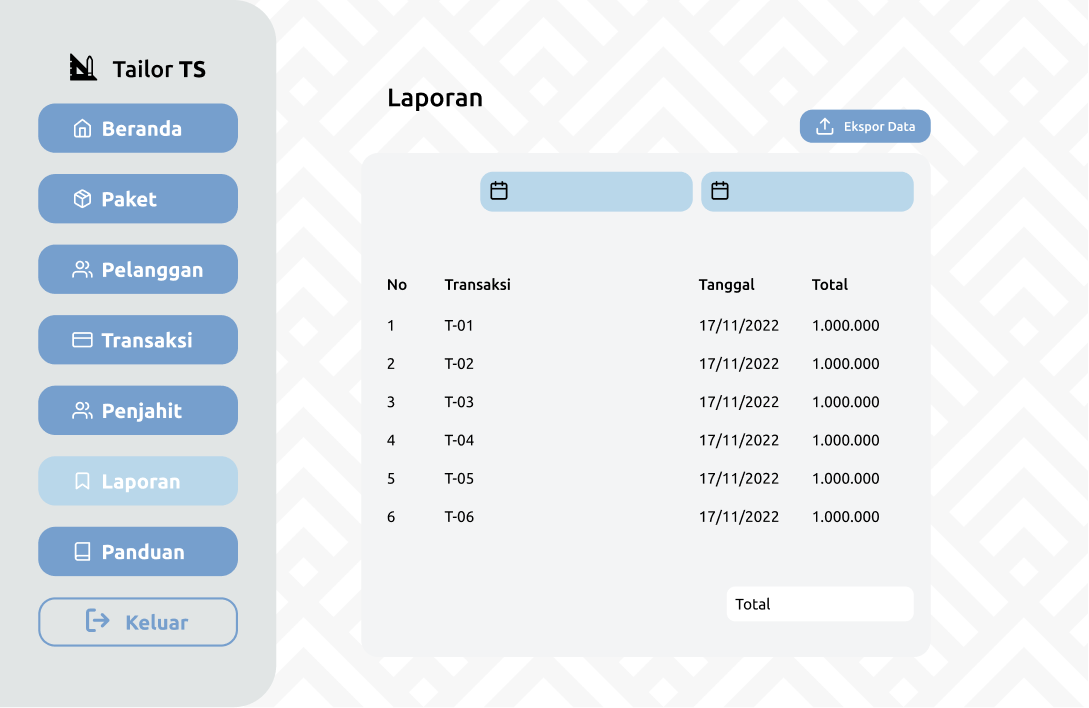
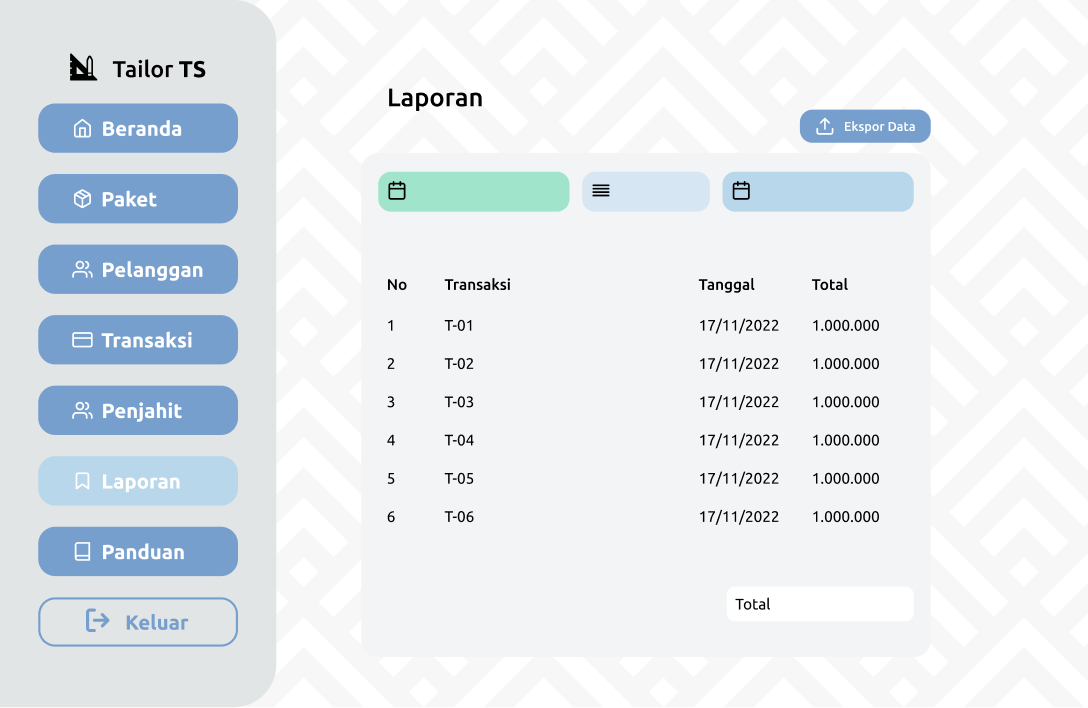
feat: show report data

diff --git a/src/main/java/polije/ppl/tailor/view/admin/LaporanAdminView.java b/src/main/java/polije/ppl/tailor/view/admin/LaporanAdminView.java
@@ -4,11 +4,12 @@
  */
 package polije.ppl.tailor.view.admin;
 
-import java.util.List;
+import java.util.Date;
 import javax.swing.table.DefaultTableModel;
 
+import polije.ppl.tailor.data.TransactionStatus;
 import polije.ppl.tailor.entity.Transaction;
-import polije.ppl.tailor.repository.TransactionRepository;
+import polije.ppl.tailor.service.ReportService;
 import polije.ppl.tailor.util.NumberUtil;
 import polije.ppl.tailor.view.util.SidebarAdminView;
 
@@ -17,27 +18,18 @@ import polije.ppl.tailor.view.util.SidebarAdminView;
  * @author Hafidz
  */
 public class LaporanAdminView extends javax.swing.JFrame {
-    private TransactionRepository transRepo = new TransactionRepository();
-
     /**
      * Creates new form LaporanAdminView
      */
     public LaporanAdminView() {
         initComponents();
+        initTransparents();
 
         sidebar.add(new SidebarAdminView(this));
         sidebar.setBackground(new java.awt.Color(255, 255, 255, 0));
+        startDate.setDate(new Date());
 
-        total.setOpaque(false);
-        total.setBackground(new java.awt.Color(255, 255, 255, 0));
-
-        startDate.setOpaque(false);
-        startDate.setBackground(new java.awt.Color(255, 255, 255, 0));
-
-        endDate.setOpaque(false);
-        endDate.setBackground(new java.awt.Color(255, 255, 255, 0));
-
-        loadTable(transRepo.get());
+        loadTable();
     }
 
     /**
@@ -55,6 +47,7 @@ public class LaporanAdminView extends javax.swing.JFrame {
         total = new javax.swing.JTextField();
         startDate = new com.toedter.calendar.JDateChooser();
         endDate = new com.toedter.calendar.JDateChooser();
+        status = new javax.swing.JComboBox<>();
         BackGround = new javax.swing.JLabel();
 
         setDefaultCloseOperation(javax.swing.WindowConstants.EXIT_ON_CLOSE);
@@ -82,13 +75,7 @@ public class LaporanAdminView extends javax.swing.JFrame {
         jScrollPane1.setViewportView(jTable1);
 
         getContentPane().add(jScrollPane1);
-        jScrollPane1.setBounds(360, 230, 570, 330);
-
-        EksporData.addMouseListener(new java.awt.event.MouseAdapter() {
-            public void mouseClicked(java.awt.event.MouseEvent evt) {
-                EksporDataMouseClicked(evt);
-            }
-        });
+        jScrollPane1.setBounds(350, 230, 570, 330);
         getContentPane().add(EksporData);
         EksporData.setBounds(800, 106, 130, 40);
 
@@ -101,22 +88,73 @@ public class LaporanAdminView extends javax.swing.JFrame {
         });
         getContentPane().add(total);
         total.setBounds(780, 587, 130, 30);
+
+        startDate.setFont(new java.awt.Font("Ubuntu", 0, 15)); // NOI18N
+        startDate.addPropertyChangeListener(new java.beans.PropertyChangeListener() {
+            public void propertyChange(java.beans.PropertyChangeEvent evt) {
+                startDatePropertyChange(evt);
+            }
+        });
         getContentPane().add(startDate);
-        startDate.setBounds(520, 177, 160, 30);
+        startDate.setBounds(410, 177, 155, 30);
+
+        endDate.setFont(new java.awt.Font("Ubuntu", 0, 15)); // NOI18N
+        endDate.addPropertyChangeListener(new java.beans.PropertyChangeListener() {
+            public void propertyChange(java.beans.PropertyChangeEvent evt) {
+                endDatePropertyChange(evt);
+            }
+        });
         getContentPane().add(endDate);
-        endDate.setBounds(740, 177, 160, 30);
+        endDate.setBounds(755, 177, 155, 30);
+
+        status.setFont(new java.awt.Font("Ubuntu", 0, 15)); // NOI18N
+        status.setModel(new javax.swing.DefaultComboBoxModel<>(
+            new Object[] {
+                null, TransactionStatus.finish, TransactionStatus.unfinish
+            }
+        ));
+        status.addActionListener(new java.awt.event.ActionListener() {
+            public void actionPerformed(java.awt.event.ActionEvent evt) {
+                statusPropertyChange(evt);
+            }
+        });
+        getContentPane().add(status);
+        status.setBounds(615, 180, 90, 24);
 
         BackGround.setIcon(new javax.swing.ImageIcon(getClass().getResource("/assets/pages/Laporan.png"))); // NOI18N
         getContentPane().add(BackGround);
-        BackGround.setBounds(0, 0, 1089, 708);
+        BackGround.setBounds(0, 0, 1088, 708);
 
         pack();
         setLocationRelativeTo(null);
     }// </editor-fold>//GEN-END:initComponents
 
+    private void initTransparents() {
+        total.setOpaque(false);
+        total.setBackground(new java.awt.Color(255, 255, 255, 0));
+
+        startDate.setOpaque(false);
+        startDate.setBackground(new java.awt.Color(255, 255, 255, 0));
+
+        endDate.setOpaque(false);
+        endDate.setBackground(new java.awt.Color(255, 255, 255, 0));
+    }
+
     private void totalActionPerformed(java.awt.event.ActionEvent evt) {//GEN-FIRST:event_totalActionPerformed
 
     }//GEN-LAST:event_totalActionPerformed
+
+    private void startDatePropertyChange(java.beans.PropertyChangeEvent evt) {//GEN-FIRST:event_startDatePropertyChange
+        loadTable();
+    }//GEN-LAST:event_startDatePropertyChange
+
+    private void statusPropertyChange(java.awt.event.ActionEvent evt) {//GEN-FIRST:event_statusPropertyChange
+        loadTable();
+    }//GEN-LAST:event_statusPropertyChange
+
+    private void endDatePropertyChange(java.beans.PropertyChangeEvent evt) {//GEN-FIRST:event_endDatePropertyChange
+        loadTable();
+    }//GEN-LAST:event_endDatePropertyChange
 
     private void EksporDataMouseClicked(java.awt.event.MouseEvent evt) {
         System.out.println(startDate.getDate());
@@ -157,7 +195,13 @@ public class LaporanAdminView extends javax.swing.JFrame {
         });
     }
 
-    private void loadTable(List<Transaction> transactions) {
+    private void loadTable() {
+        ReportService service = new ReportService(
+            startDate.getDate(),
+            endDate.getDate(),
+            (TransactionStatus) status.getSelectedItem()
+        );
+
         int no = 1;
         DefaultTableModel model = new DefaultTableModel();
 
@@ -167,7 +211,7 @@ public class LaporanAdminView extends javax.swing.JFrame {
         model.addColumn("Status");
         model.addColumn("Total");
 
-        for(Transaction transaction: transactions) {
+        for(Transaction transaction: service.getData()) {
             model.addRow(new Object[] {
                 no++,
                 transaction.getDate().toString(),
@@ -188,6 +232,7 @@ public class LaporanAdminView extends javax.swing.JFrame {
     private javax.swing.JTable jTable1;
     private javax.swing.JPanel sidebar;
     private com.toedter.calendar.JDateChooser startDate;
+    private javax.swing.JComboBox<Object> status;
     private javax.swing.JTextField total;
     // End of variables declaration//GEN-END:variables
 }

diff --git a/src/main/java/polije/ppl/tailor/service/ReportService.java b/src/main/java/polije/ppl/tailor/service/ReportService.java
@@ -1,0 +1,60 @@
+package polije.ppl.tailor.service;
+
+import java.util.ArrayList;
+import java.util.Calendar;
+import java.util.Date;
+import java.util.List;
+
+import polije.ppl.tailor.data.TransactionStatus;
+import polije.ppl.tailor.entity.Transaction;
+import polije.ppl.tailor.repository.TransactionRepository;
+
+public class ReportService {
+    private Date start, end;
+    private TransactionStatus status;
+    private TransactionRepository repo;
+    private Calendar cal;
+    private List<Object> values;
+    private StringBuilder qb;
+
+    public ReportService(Date start, Date end, TransactionStatus status) {
+        this.start = start;
+        this.end = end;
+        this.status = status;
+
+        repo = new TransactionRepository();
+        cal = Calendar.getInstance();
+        values = new ArrayList<>();
+
+        qb = new StringBuilder();
+        qb.append("SELECT * FROM transactions WHERE");
+    }
+
+    public List<Transaction> getData() {
+        String query = composeQuery();
+        return repo.customQuery(query, values);
+    }
+
+    private String composeQuery() {
+        if((start != null) && (end != null)) {
+            qb.append(" date BETWEEN ? AND ?");
+
+            values.add(start);
+            values.add(end);
+        } else {
+            qb.append(" MONTH(date) = ? AND YEAR(date) = ?");
+
+            if((start != null) && (end == null)) cal.setTime(start);
+
+            values.add(cal.get(Calendar.MONTH) + 1);
+            values.add(cal.get(Calendar.YEAR));
+        }
+
+        if(status != null) {
+            qb.append(" AND status = ?");
+            values.add(status);
+        }
+
+        return qb.toString();
+    }
+}

diff --git a/src/main/java/polije/ppl/tailor/repository/TransactionRepository.java b/src/main/java/polije/ppl/tailor/repository/TransactionRepository.java
@@ -193,6 +193,7 @@ public class TransactionRepository implements Repository<Transaction> {
 
         try (PreparedStatement stmt = conn.prepareStatement(query)) {
             DatabaseUtil.prepareStmt(stmt, values);
+            System.out.println(stmt);
             ResultSet rs = stmt.executeQuery();
 
             while(rs.next()) {
